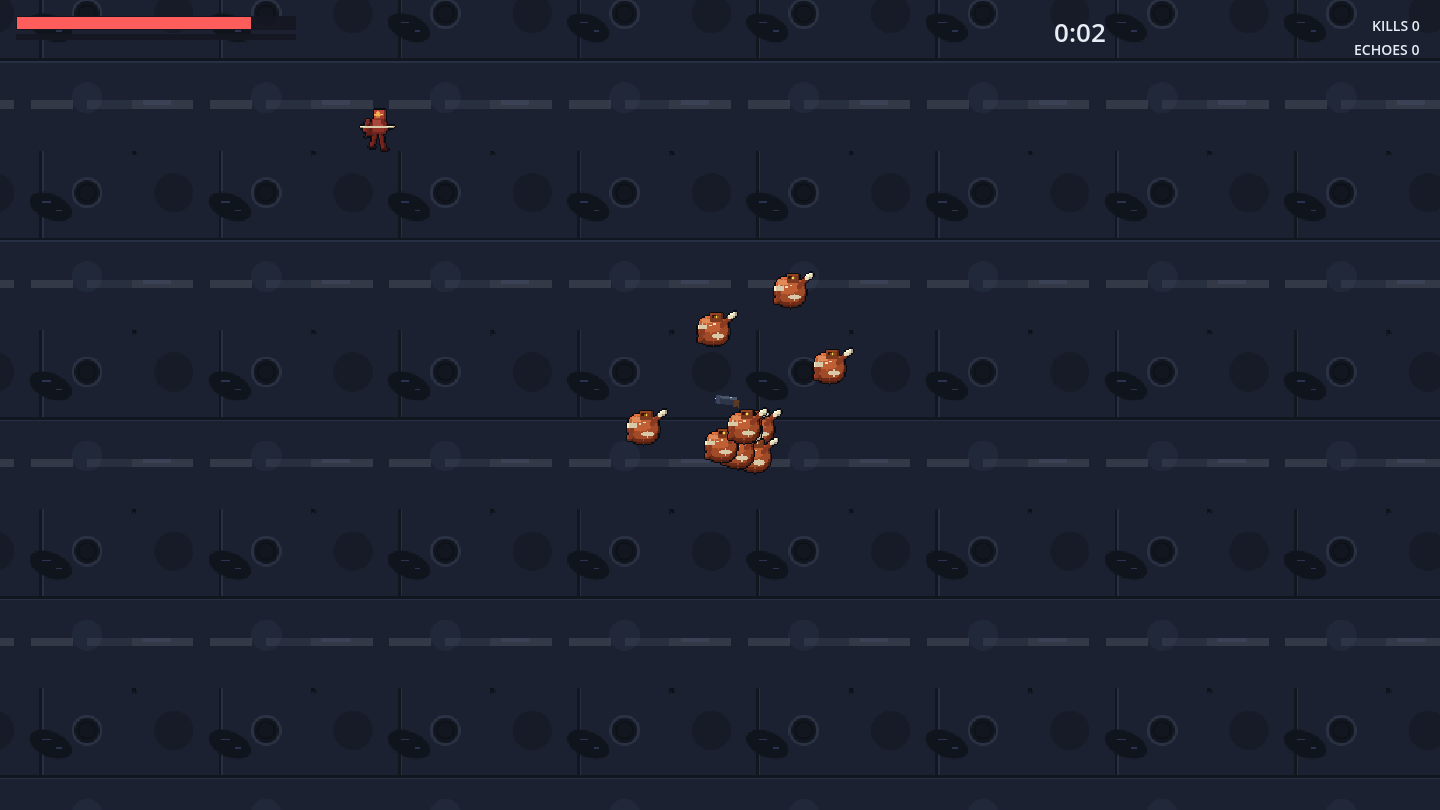
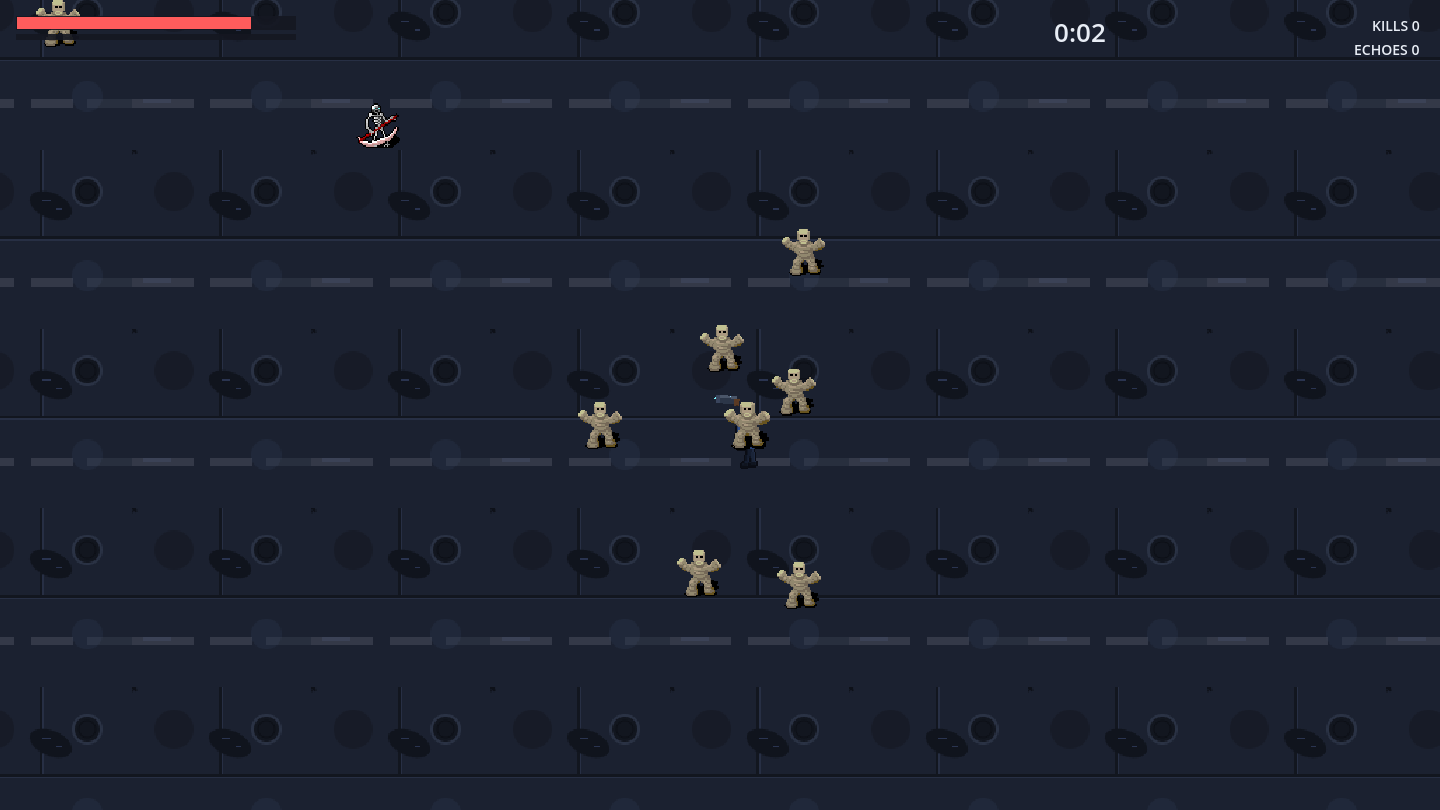
ECHObound: integrate CC0 Dungeon Crawl Stone Soup tiles (ProjectUtumno) as enemy art — 6 species swapped to professional 32px tiles (husk=mummy, lancer=skeleton reaper, mourner=necromancer, witness=shining-eye orb, parasite=brain-tentacle, leech=maggot) at per-species scale; pack vendored (public/pa

diff --git a/echobound/src/game/enemies.js b/echobound/src/game/enemies.js
@@ -9,16 +9,18 @@ import { addXp } from './player.js';
 import { SpatialHash, TAU, rand, irand, angTo, clamp } from '../core/util.js';
 
 export const ENEMY_DEF = {
-  husk:     { hp: 20, spd: 95,  dmg: 8, r: 13, xp: 1, cost: 1, spr: 'husk', fr: 4 },
-  lancer:   { hp: 26, spd: 82,  dmg: 7, r: 12, xp: 2, cost: 2, spr: 'lancer', fr: 4 },
-  mourner:  { hp: 60, spd: 46,  dmg: 6, r: 15, xp: 5, cost: 4, spr: 'mourner', fr: 4 },
+  // pack species (CC0 Dungeon Crawl Stone Soup tiles, 32px art) — drawn at own scale
+  husk:     { hp: 20, spd: 95,  dmg: 8, r: 15, xp: 1, cost: 1, spr: 'pk_husk', fr: 1, scale: 1.0 },
+  lancer:   { hp: 26, spd: 82,  dmg: 7, r: 15, xp: 2, cost: 2, spr: 'pk_lancer', fr: 1, scale: 1.05 },
+  mourner:  { hp: 60, spd: 46,  dmg: 6, r: 15, xp: 5, cost: 4, spr: 'pk_mourner', fr: 1, scale: 1.05 },
+  leech:    { hp: 24, spd: 110, dmg: 5, r: 11, xp: 2, cost: 3, spr: 'pk_leech', fr: 1, scale: 1.1 },
+  parasite: { hp: 36, spd: 125, dmg: 6, r: 12, xp: 4, cost: 4, spr: 'pk_parasite', fr: 1, scale: 1.1 },
+  witness:  { hp: 70, spd: 55,  dmg: 0, r: 13, xp: 6, cost: 5, spr: 'pk_witness', fr: 1, scale: 1.15 },
+  counter:  { hp: 80, spd: 70,  dmg: 10, r: 13, xp: 6, cost: 5, spr: 'pk_witness', fr: 1, scale: 1.15 },
+  // procedural species (own art, multi-frame)
   thief:    { hp: 30, spd: 155, dmg: 4, r: 11, xp: 3, cost: 2, spr: 'thief', fr: 4 },
-  leech:    { hp: 24, spd: 110, dmg: 5, r: 10, xp: 2, cost: 3, spr: 'leech', fr: 4 },
   mirror:   { hp: 44, spd: 70,  dmg: 6, r: 11, xp: 4, cost: 4, spr: 'mirror', fr: 2 },
   timeeater:{ hp: 90, spd: 85,  dmg: 8, r: 15, xp: 8, cost: 6, spr: 'timeeater', fr: 4 },
-  parasite: { hp: 36, spd: 125, dmg: 6, r: 11, xp: 4, cost: 4, spr: 'parasite', fr: 4 },
-  witness:  { hp: 70, spd: 55,  dmg: 0, r: 12, xp: 6, cost: 5, spr: 'witness', fr: 3 },
-  counter:  { hp: 80, spd: 70,  dmg: 10, r: 12, xp: 6, cost: 5, spr: 'witness', fr: 3 },
   clockadd: { hp: 14, spd: 175, dmg: 6, r: 9,  xp: 1, cost: 1, spr: 'clockadd', fr: 1 },
 };
 
@@ -27,10 +29,10 @@ export const ELITE_NAMES = { teleport: 'TELEPORTING', explosive: 'EXPLOSIVE', re
 
 // gib + splat colors per family (visual identity of remains)
 const FAMILY = {
-  husk: ['#c96a4a', '#43201a'], lancer: ['#b85a40', '#3c1e16'], mourner: ['#8a8f9c', '#23262e'],
-  thief: ['#d8a850', '#33260f'], leech: ['#c46a48', '#36180e'], mirror: ['#aab6c8', '#272d3a'],
-  timeeater: ['#c9a86b', '#33260f'], parasite: ['#d8a850', '#2c220d'], witness: ['#d8c9a8', '#332c20'],
-  counter: ['#ffb454', '#33200f'], clockadd: ['#c9a86b', '#2e2410'],
+  husk: ['#c9b493', '#43201a'], lancer: ['#d8c9a8', '#3c1e16'], mourner: ['#9a5ab0', '#2a1a30'],
+  thief: ['#d8a850', '#33260f'], leech: ['#d8a080', '#36180e'], mirror: ['#aab6c8', '#272d3a'],
+  timeeater: ['#c9a86b', '#33260f'], parasite: ['#b08ad8', '#2a2038'], witness: ['#8fb8d8', '#202830'],
+  counter: ['#8fb8d8', '#202830'], clockadd: ['#c9a86b', '#2e2410'],
 };
 
 export function hpScale() { const m = G.time / 60; return 1 + m * 0.35 + m * m * 0.045; }
@@ -38,7 +40,8 @@ export function dmgScale() { return 1 + (G.time / 60) * 0.055; }
 
 export function spawnEnemy(type, x, y, elite = null, opts = {}) {
   const d = ENEMY_DEF[type];
-  const sc = opts.scale ?? 1;
+  const baseScale = d.scale || 1;
+  const sc = (opts.scale ?? 1) * baseScale;
   const eliteMul = elite ? 2.6 : 1;
   const e = {
     id: G.nextId++, type, x, y, vx: 0, vy: 0, kbx: 0, kby: 0,
